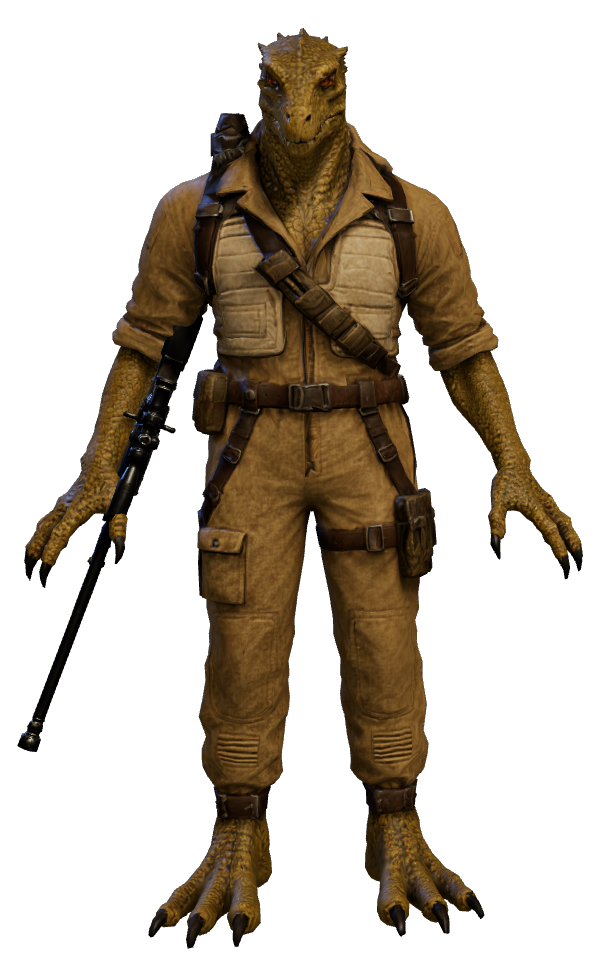
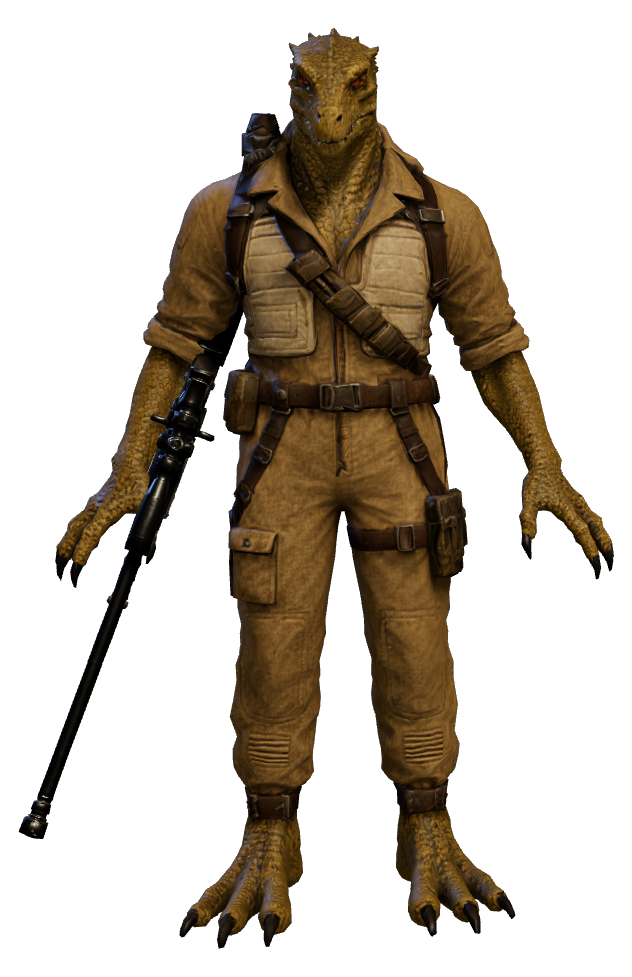
Apply Bossk rifle grips and wait for choice props

Changed region(s): [[0.03, 0.0307, 0.96, 0.9826]]

diff --git a/src/ui/charselect.ts b/src/ui/charselect.ts
@@ -90,6 +90,15 @@ const FIT_FOOTPRINT = 1.8;
 
 const _fitBox = new THREE.Box3();
 const _fitSize = new THREE.Vector3();
+const readyFighters = new WeakSet<PlayerCharacter>();
+
+/** Reveal a fighter only after both its body and every attached prop settle. */
+function fighterReady(c: PlayerCharacter): boolean {
+  if (readyFighters.has(c)) return true;
+  const ready = c.modelReady() && propsSettled(c.root);
+  if (ready) readyFighters.add(c);
+  return ready;
+}
 
 type Phase = 'empty' | 'browsing' | 'spinning' | 'ready';
 
@@ -932,7 +941,7 @@ export class CharacterSelect {
     // waiting: build the body now rather than a beat from now.
     if (s.poster && !s.poster.promoted) { s.poster.promoted = true; this.charFor(s, this.roster[s.choice]); }
     const c = s.chars.get(this.roster[s.choice]);
-    if (!c || !c.modelReady()) return;   // nothing to lock in until the model is here
+    if (!c || !fighterReady(c)) return;   // nothing to lock in until the whole fighter is here
     audio.uiConfirm();
     s.phase = 'spinning';
     s.spinT = 0;
@@ -1037,12 +1046,12 @@ export class CharacterSelect {
         s.poster.promoted = true;
       }
       const current = this.charFor(s, id);
-      for (const [cid, c] of s.chars) c.root.visible = cid === id && c.modelReady();
+      for (const [cid, c] of s.chars) c.root.visible = cid === id && fighterReady(c);
       // the handover: they are pixel-aligned by construction, so there is
       // nothing to see in it
-      const handoff = !!s.poster && current.modelReady();
+      const handoff = !!s.poster && fighterReady(current);
       if (handoff) this.dropPoster(s);
-      if (current.modelReady() && !s.poster) {
+      if (fighterReady(current) && !s.poster) {
         s.glowRise = Math.min(1.6, s.glowRise + dt);
         const breathe = 0.8 + 0.2 * Math.sin(this.time * 1.05 + i * 1.3);
         s.backGlow.intensity = 1.5 * Math.min(1, s.glowRise / 1.3) * breathe * s.appear;
@@ -1057,7 +1066,7 @@ export class CharacterSelect {
       // no procedural stand-in: wait it out, spinner after a grace period. A
       // poster covers this whenever there is one — the spinner is what a
       // fighter with no generated picture still falls back to.
-      const waiting = !current.modelReady() && !s.poster;
+      const waiting = !fighterReady(current) && !s.poster;
       if (waiting) {
         s.loadingFor += dt;
         s.spinner.style.display = s.loadingFor > SPINNER_DELAY ? '' : 'none';
@@ -1184,11 +1193,8 @@ export class CharacterSelect {
   posterShot(reference: THREE.WebGLRenderer, px = POSTER_PX, aspect = POSTER_ASPECT): PosterShot | null {
     const s = this.slots[0];
     const c = s.chars.get(this.roster[s.choice]);
-    // The weapon has to have landed too. `modelReady` answers for the body
-    // alone, and a fighter shot in between carried the procedural stand-in —
-    // a thin stick in the picture where the model on the plinth holds a
-    // rifle. Waiting is free here: this runs in the generator, not in play.
-    if (!c || !c.modelReady() || !propsSettled(c.root)) return null;
+    // Capture the same complete fighter that the live plinth will reveal.
+    if (!c || !fighterReady(c)) return null;
 
     // Pin the plinth to the pose the handover happens at.
     //

diff --git a/src/characters/mandalorians.ts b/src/characters/mandalorians.ts
@@ -8,6 +8,7 @@ import type { VoiceId } from '../core/audio';
 import { dinMeleeVariants } from '../workbench/combatStudies';
 import { counterweightTracks } from '../anim/counterweight';
 import { applyArmorerAxeGrip } from './armorerAxeGrips';
+import { applyBosskRifleGrip, BOSSK_RIFLE_SCALE } from './bosskRifleGrip';
 
 /**
  * Playable characters — one config-driven factory so every fighter shares the
@@ -474,6 +475,8 @@ export function buildMandalorian(id: MandoId, opts: { authored?: boolean } = {})
     main.add(muzzle);
     guns.set(kind, { main, muzzle, offhand: kind === 'pistols' ? pairOn(() => makePistol(gunmetal, dark)) : null });
   }
+  const bosskRifle = id === 'bossk' ? guns.get('longrifle')?.main : undefined;
+  if (bosskRifle) bosskRifle.scale.setScalar(BOSSK_RIFLE_SCALE);
 
   // Staff and saber share the gripping hand, but their local axes need
   // different mount rotations: a spear thrust carries its point forward.
@@ -608,6 +611,10 @@ export function buildMandalorian(id: MandoId, opts: { authored?: boolean } = {})
   }
   adoptHeroMaterials(rig.root);
 
+  // The authored mount is shared by carry and aim. Change only its rifle-local
+  // transform as the upper-body clip changes; locomotion below it is irrelevant.
+  let bosskRifleAiming: boolean | null = null;
+
   // ---- authored model swap ----
   // The procedural build above stays as the animation source and the instant
   // fallback; if models/<id>.glb loads, its skin rides the same rig instead.
@@ -639,6 +646,10 @@ export function buildMandalorian(id: MandoId, opts: { authored?: boolean } = {})
         pistols.main.quaternion.set(0.6537136, -0.0671748, 0.0762969, 0.7498832).normalize();
         pistols.offhand.position.set(-0.01701, 0.072469, -0.096437);
         pistols.offhand.quaternion.set(0.6447175, 0.0555208, -0.0388719, 0.7614103).normalize();
+      }
+      if (bosskRifle && model.weaponMount) {
+        applyBosskRifleGrip(bosskRifle, false);
+        bosskRifleAiming = false;
       }
       // Measured in the workbench against the authored palms at saberIdle.
       // The prop remains parented to each authored hand, so these grip-local
@@ -735,6 +746,13 @@ export function buildMandalorian(id: MandoId, opts: { authored?: boolean } = {})
       for (const m of heroMats) m.emissiveIntensity = intensity;
     },
     cosmetic: (dt, time) => {
+      if (bosskRifle && swap.model) {
+        const aiming = inst.animator?.playing('upper') === 'aimUpper';
+        if (aiming !== bosskRifleAiming) {
+          applyBosskRifleGrip(bosskRifle, aiming);
+          bosskRifleAiming = aiming;
+        }
+      }
       if (id === 'armorer') {
         const clip = inst.animator?.playing('upper') ?? null;
         if (clip !== armorerAxeClip) {

diff --git a/src/characters/bosskRifleGrip.ts b/src/characters/bosskRifleGrip.ts
@@ -1,0 +1,19 @@
+import * as THREE from 'three';
+
+/** Hand-local transforms exported from Bossk's idle carry and standing aim. */
+const CARRY = {
+  position: [0.008026, -0.060982, 0.023936],
+  quaternion: [0.6696135, -0.0169063, 0.0185478, 0.7422856],
+} as const;
+const AIM = {
+  position: [-0.10552, -0.358886, 0.114163],
+  quaternion: [0.6799579, -0.0927467, -0.0845205, 0.7224345],
+} as const;
+
+export const BOSSK_RIFLE_SCALE = 1.23;
+
+export function applyBosskRifleGrip(rifle: THREE.Object3D, aiming: boolean): void {
+  const grip = aiming ? AIM : CARRY;
+  rifle.position.set(grip.position[0], grip.position[1], grip.position[2]);
+  rifle.quaternion.set(grip.quaternion[0], grip.quaternion[1], grip.quaternion[2], grip.quaternion[3]).normalize();
+}
